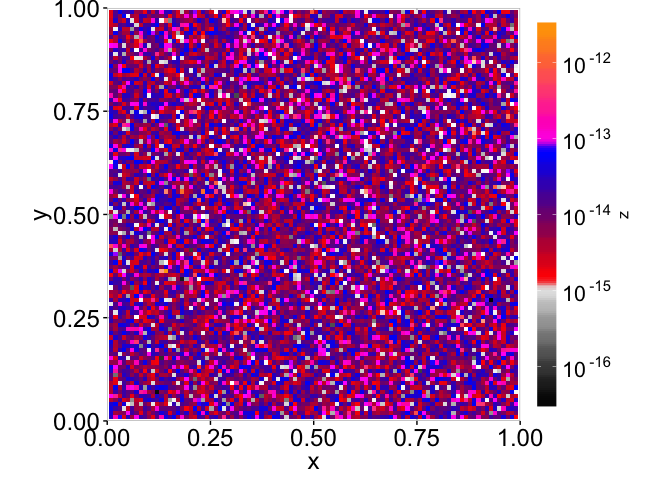
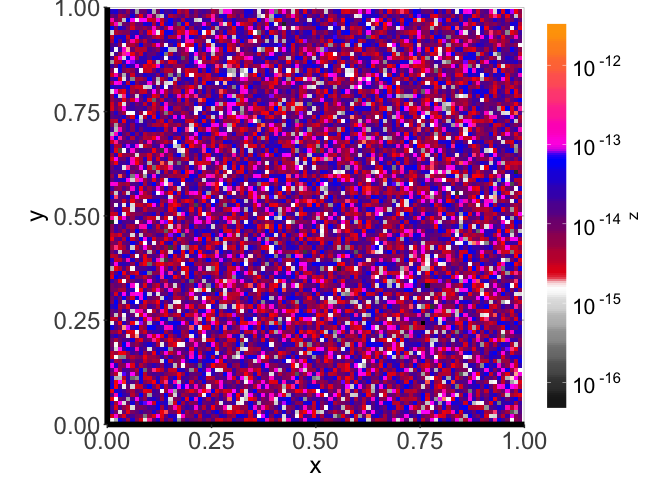
Improvements of the spherical plot

diff --git a/README.md b/README.md
@@ -252,10 +252,25 @@ First, we create an array with spherical coordinates:
     simg <- array(1e0, c(snx, sny))
 
     # fill array with random numbers in a certain interval
-    simg <- 10^(apply(simg, c(1, 2), function(x) {rnorm(1, 0.5, 0.3) }) * 2e0) * 1e-15
+    for (i in 1:snx) {
+        for (j in 1:sny) {
+            simg[i, j] = (rnorm(1, 1e1, 0.3))^2 * 1e10 * (cos(sy[j])^2 + 1e0)/ (sx[i]^2)
+        }
+    }
 
 Now we call the routine with the parameter igeom set to 2:
 
     pltimggg.plot2D(sx, sy, simg, legend.direction = "vertical", igeom = 2, zlog=TRUE)
 
 ![](README_files/figure-markdown_strict/unnamed-chunk-22-1.png)
+
+We can also plot just a small wedge:
+
+    pltimggg.plot2D(sx, sy[250:270], simg[,250:270], legend.direction = "vertical", igeom = 2, zlog=TRUE)
+
+![](README_files/figure-markdown_strict/unnamed-chunk-23-1.png) Or we
+can also plot everything but that small wedge:
+
+    pltimggg.plot2D(sx, sy[-(250:270)], simg[,-(250:270)], legend.direction = "vertical", igeom = 2, zlog=TRUE)
+
+![](README_files/figure-markdown_strict/unnamed-chunk-24-1.png)
